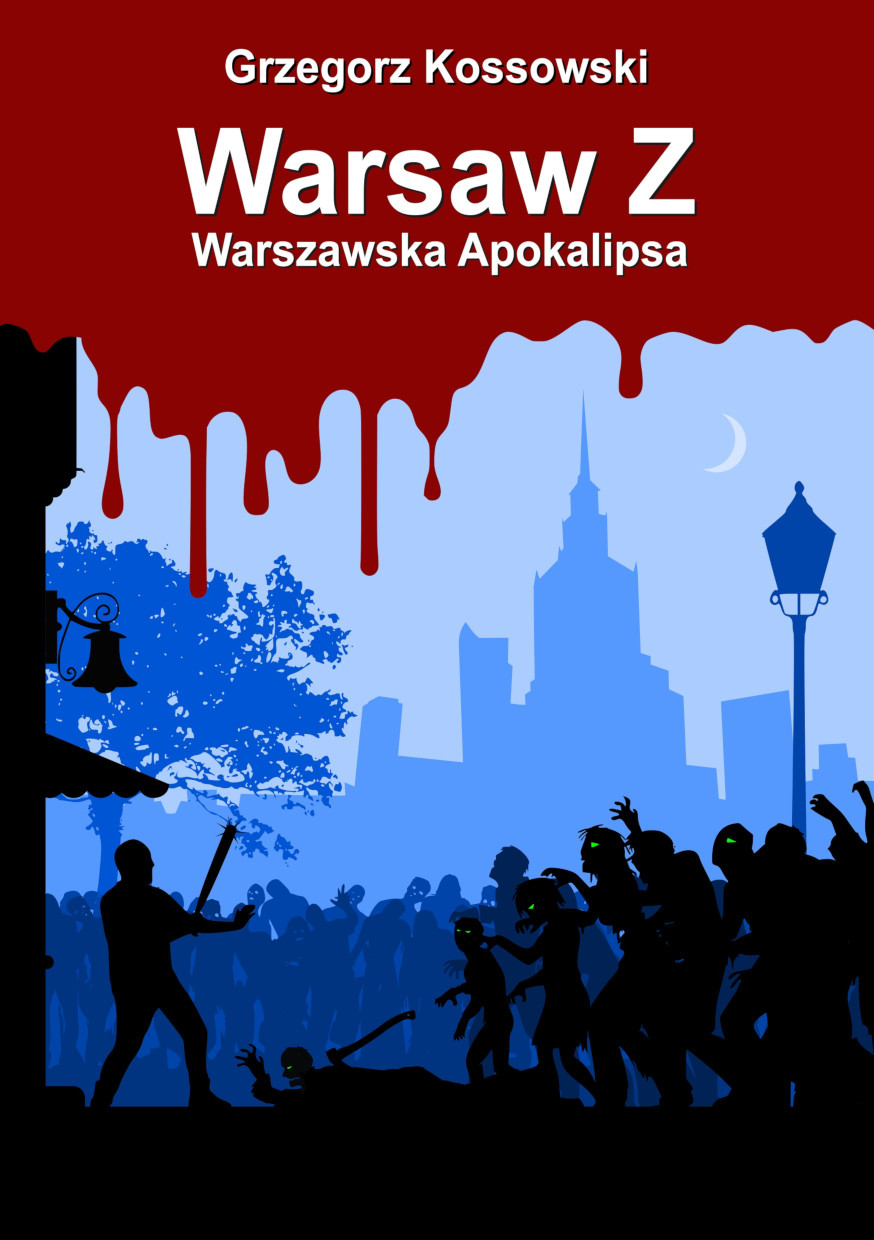
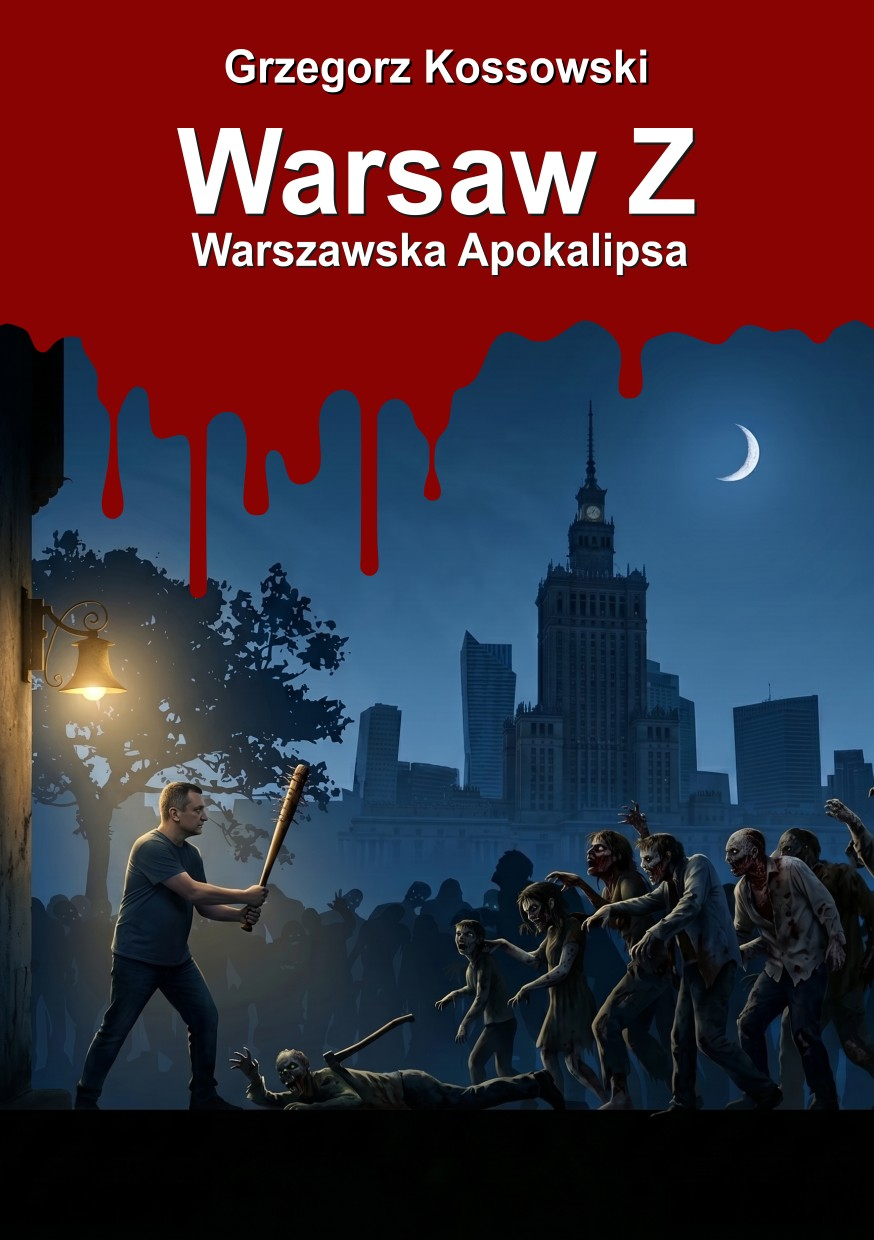
Kroniki Bursztynowego Płynu - zapowiedz

diff --git a/src/content/books/kroniki-bursztynowego-plynu-t3.md b/src/content/books/kroniki-bursztynowego-plynu-t3.md
@@ -1,0 +1,24 @@
+---
+title: "Na 95 procent"
+series: "Kroniki Bursztynowego Płynu"
+seriesOrder: 3
+category: "romantasy"
+cover: "../../assets/covers/kroniki-t3.jpg"
+publishDate: 2026-07-06
+# isNew: true
+buyUrl: "https://www.empik.com/szukaj/produkt?author=kossowski+grzegorz&sort=popularityDesc"
+author: "Grzegorz Kossowski"
+publisher: "Grzegorz Kossowski"
+isbn: "brak"
+pages: 0
+format: "Ebook (EPUB, empik.go)"
+audiobook: false
+language: "polski"
+price: 29.99
+---
+
+Maja, studentka browarnictwa z Łodzi, trafia do magicznego świata, gdzie alkohol pomaga w nawigacji po morzach i oceanach.
+
+### O czym jest ta książka?
+
+Maja nie jest już zagubioną studentką z Łodzi – to Mistrzyni Płynu, od której zależy życie całej załogi. W trzecim tomie „Kronik Bursztynowego Płynu” cena wolności okazuje się najwyższą z możliwych. Po bolesnej zdradzie i tragicznych stratach, Maja i Kieł muszą zaryzykować wszystko w decydującej bitwie. W huku armat i oparach alkoholu ważą się losy Archipelagu. Wreszcie, który ze światów Maja ostatecznie wybierze - Archipelag Tysiąca Wysp czy ukochaną Polskę? Wyrusz w pełną wzruszeń opowieść o przebaczeniu, odnajdywaniu domu na krańcu świata i uczuciu, które potrafi pokonać całe Imperium. Poznaj spektakularny finał sagi, w której nauka, magia i namiętność tworzą mieszankę wybuchową w świecie, gdzie dwa słońca i dwa księżyce oświetlają drogę do wolności. Tagi: #romantasy, #GIRLSPOWER, #fantasy, #romance, #isekai, #portalFantasy.

diff --git a/src/content/books/kroniki-bursztynowego-plynu-t2.md b/src/content/books/kroniki-bursztynowego-plynu-t2.md
@@ -1,0 +1,24 @@
+---
+title: "Ona, Wilk i Lisica"
+series: "Kroniki Bursztynowego Płynu"
+seriesOrder: 2
+category: "romantasy"
+cover: "../../assets/covers/kroniki-t2.jpg"
+publishDate: 2026-06-15
+# isNew: true
+buyUrl: "https://www.empik.com/szukaj/produkt?author=kossowski+grzegorz&sort=popularityDesc"
+author: "Grzegorz Kossowski"
+publisher: "Grzegorz Kossowski"
+isbn: "brak"
+pages: 0
+format: "Ebook (EPUB, empik.go)"
+audiobook: false
+language: "polski"
+price: 29.99
+---
+
+Maja, studentka browarnictwa z Łodzi, trafia do magicznego świata, gdzie alkohol pomaga w nawigacji po morzach i oceanach.
+
+### O czym jest ta książka?
+
+Maja walczy o przetrwanie w obliczu admirała, który pragnie jej wiedzy i ciała. Jej jedyną nadzieją jest Kieł – wilk, który nie spocznie, póki nie odzyska swojej kobiety. Jednak powrót na morze przynosi nowe niebezpieczeństwo: spotkanie z Sorszą, egzotyczną, rudą kitsune. Rywalka do serca Kła budzi w Mai emocje, o jakie nigdy by się nie podejrzewała. Kontynuacja mrocznej i namiętnej opowieści, w której granica między nienawiścią a pożądaniem zaciera się w blasku dwóch słońc. Kontynuacja sagi, która pali zmysły mocniej niż czysty spirytus. Tagi: #darkRomance, #romantasy, #isekai, #namiętność, #loveTriangle, #piraci.

diff --git a/src/content/books/kroniki-bursztynowego-plynu-t1.md b/src/content/books/kroniki-bursztynowego-plynu-t1.md
@@ -1,0 +1,24 @@
+---
+title: "Morze, Wódka i Pocałunek"
+series: "Kroniki Bursztynowego Płynu"
+seriesOrder: 1
+category: "romantasy"
+cover: "../../assets/covers/kroniki-t1.jpg"
+publishDate: 2026-05-25
+# isNew: true
+buyUrl: "https://www.empik.com/szukaj/produkt?author=kossowski+grzegorz&sort=popularityDesc"
+author: "Grzegorz Kossowski"
+publisher: "Grzegorz Kossowski"
+isbn: "brak"
+pages: 0
+format: "Ebook (EPUB, empik.go)"
+audiobook: false
+language: "polski"
+price: 19.99
+---
+
+Maja, studentka browarnictwa z Łodzi, trafia do magicznego świata, gdzie alkohol pomaga w nawigacji po morzach i oceanach.
+
+### O czym jest ta książka?
+
+Maja, studentka z Łodzi, zamiast na egzamin z fermentacji trafia na targ niewolników w świecie Tysiąca Wysp. Przywołana przez pomyłkę, zostaje kupiona przez Treya „Kła” Cartera – mrocznego kapitana piratów o wilczej naturze. W universum, gdzie alkohol jest kluczem do magicznej nawigacji, wiedza Mai staje się towarem wartym fortunę. Czy pośród morskich bitew narodzi się namiętność silniejsza niż lęk przed Imperium? Odkryj początek sagi, w której nauka miesza się z magią, a lojalność z dzikim pożądaniem. Tagi: #romantasy, #isekai, #slowBurn, #enemies2lovers, #piraci #silnaBohaterka.
